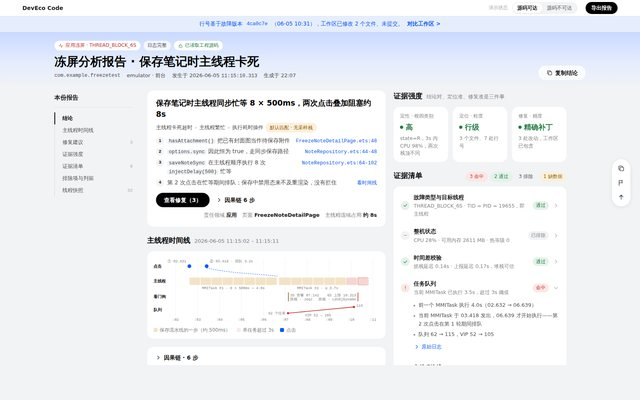
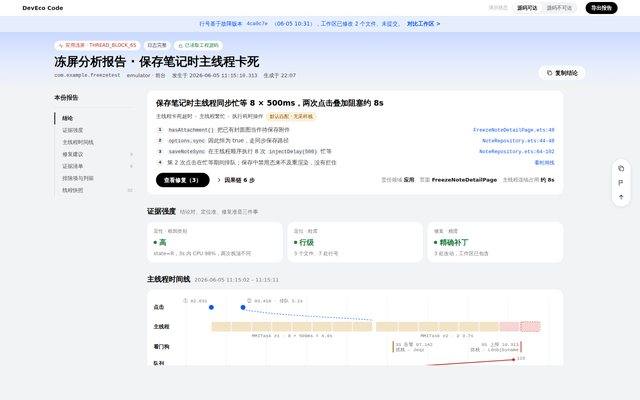
demo 28 正文改成单列
右栏分两列太挤：正文改为单列（最宽 1040px），按读者决策顺序排——结论 →
证据强度 → 主线程时间线 → 因果链 → 修复建议 → 证据清单 → 排除项与判据 →
线程快照，左侧目录同序。时间线坐标宽度随之放大，字号保持不变。提示词 B3
与分析报告审查页同步。

diff --git a/demos/28-appfreeze-report/index.html b/demos/28-appfreeze-report/index.html
@@ -88,9 +88,9 @@ h1{font-size:30px;font-weight:700;line-height:1.3;color:var(--ink)}
 
 
 /* ===== 两栏正文 ===== */
-.grid2{display:grid;grid-template-columns:minmax(0,58fr) minmax(0,42fr);gap:20px;align-items:start}
-.col{display:flex;flex-direction:column;gap:20px;min-width:0}
-@media (max-width:1280px){.grid2{grid-template-columns:1fr}}
+.grid2{display:flex;flex-direction:column;gap:28px;max-width:1040px}
+.col{display:contents}
+#sec-verdict{order:1}#sec-strength{order:2}#sec-timeline{order:3}#sec-chain{order:4}#sec-fix{order:5}#sec-checks{order:6}#sec-excl{order:7}#sec-threads{order:8}
 .sec-t{display:flex;align-items:baseline;gap:10px;margin-bottom:12px}
 .sec-t h2{font-size:18px;font-weight:700;color:var(--ink)}
 .sec-t .sub2{font-size:13px;color:var(--ink3)}
@@ -305,9 +305,9 @@ a.btn{text-decoration:none}
     <div class="rep"><h6>本份报告</h6>
     <nav class="tree">
       <a href="#sec-verdict" data-s="sec-verdict">结论</a>
+      <a href="#sec-strength" data-s="sec-strength">证据强度</a>
       <a href="#sec-timeline" data-s="sec-timeline">主线程时间线</a>
       <a href="#sec-fix" data-s="sec-fix">修复建议<span class="n" id="nav-fixn">3</span></a>
-      <a href="#sec-strength" data-s="sec-strength">证据强度</a>
       <a href="#sec-checks" data-s="sec-checks">证据清单<span class="n" id="nav-ckn">9</span></a>
       <a href="#sec-excl" data-s="sec-excl">排除项与判据</a>
       <a href="#sec-threads" data-s="sec-threads">线程快照<span class="n">32</span></a>
@@ -561,7 +561,7 @@ function render(anim){
       <section id="sec-timeline">
         <div class="sec-t"><h2>主线程时间线</h2><span class="sub2">2026-06-05 11:15:02 – 11:15:11</span><span class="grow"></span></div>
         <div class="chart">
-          <svg id="tl" viewBox="0 0 720 ${verified?262:212}"></svg>
+          <svg id="tl" viewBox="0 0 1000 ${verified?262:212}"></svg>
           <div class="legend"><span><i style="background:#F3E3C6"></i>保存流水线的一步（约 500ms）</span><span><i style="background:var(--no-soft)"></i>单任务超过 3s</span><span><i style="background:var(--accent)"></i>点击</span>${verified?'<span><i style="background:var(--yes-soft)"></i>修复后复现</span>':''}</div>
         </div>
       </section>
@@ -656,7 +656,7 @@ function ckRow(c,i){
 }
 
 /* ---------- 时间线 ---------- */
-const X0=70, PX=70; // x = X0 + (sec - 2) * PX
+const X0=80, PX=100; // x = X0 + (sec - 2) * PX
 const tx=s=>X0+(parseFloat(s)-2)*PX;
 function drawTimeline(){
   const svg=$('#tl'); if(!svg) return;
@@ -687,7 +687,7 @@ function drawTimeline(){
     g+=`<rect x="${tx(2.64)}" y="214" width="6" height="16" rx="2" fill="#237A45"/><rect x="${tx(3.43)}" y="214" width="5" height="16" rx="2" fill="#237A45"/>`;
     g+=`<text x="${tx(3.8)}" y="226" fill="#237A45">两次点击各 14ms / 9ms 返回 · 保存在后台完成 · 未触发 3S / 6S</text>`;
   }
-  svg.setAttribute('viewBox',`0 0 720 ${H}`);
+  svg.setAttribute('viewBox',`0 0 1000 ${H}`);
   svg.innerHTML=g;
 }
 

diff --git a/analysis/appfreeze-report/REPORT-分析报告.html b/analysis/appfreeze-report/REPORT-分析报告.html
@@ -542,7 +542,7 @@ b.r{color:var(--red)}b.g{color:var(--green)}b.y{color:var(--yellow)}b.b{color:va
         <tbody>
           <tr><td><b>B1</b></td><td>镜1 首屏与空态</td><td>首屏 900px 只有标题、机器枚举、重复 H1、基本信息与 250 字散文；修复在第 5.6 / 6.2 屏</td><td class="sev"><span class="chip chip-red">🔴 严重</span></td><td>结论卡 + 证据强度 + 时间线进首屏</td></tr>
           <tr><td><b>B2</b></td><td>镜2 可扫读性</td><td>诊断一句含 ≥6 个事实；7 个排除项挤在一句散文</td><td class="sev"><span class="chip chip-red">🔴 严重</span></td><td>要点行 + 定位 chip；排除项 chip 网格</td></tr>
-          <tr><td><b>B3</b></td><td>镜3 空间叙事</td><td>960px 单栏，1440 下空白 33%、1920 下 50%；结论与支撑证据相距 &gt;2700px</td><td class="sev"><span class="chip chip-yellow">🟡 中等</span></td><td>≥1200px 双栏：左判决 / 右证据；行号分屏</td></tr>
+          <tr><td><b>B3</b></td><td>镜3 空间叙事</td><td>960px 单栏，1440 下空白 33%、1920 下 50%；结论与支撑证据相距 &gt;2700px</td><td class="sev"><span class="chip chip-yellow">🟡 中等</span></td><td>单列按决策顺序排：判决 → 强度 → 时间线 → 修复 → 证据；行号开代码面板</td></tr>
           <tr><td><b>B4</b></td><td>镜4 数据流</td><td>两次点击 → 两轮 4.0s → 3S → 6S 只在 21 行 hilog 里</td><td class="sev"><span class="chip chip-red">🔴 严重</span></td><td>四泳道主线程时间线</td></tr>
           <tr><td><b>B5</b></td><td>镜5 状态编码</td><td>8 项检查无状态标识；置信度单一「HIGH」，两版相同</td><td class="sev"><span class="chip chip-red">🔴 严重</span></td><td>三轴强度 + 四色证据状态 + 摘要</td></tr>
         </tbody>

diff --git a/analysis/appfreeze-report/PROMPT-Demo优化提示词.md b/analysis/appfreeze-report/PROMPT-Demo优化提示词.md
@@ -93,14 +93,14 @@
   2. 三级根因路径：`主线程卡死超时 › 主线程繁忙 › 执行耗时操作`，第三级后挂 `--part` 浅底 pill「默认匹配 · 无采样栈」
   3. 4 条编号要点（见 B2）
   4. 底行：黑色胶囊主按钮「查看修复（3）」+「因果链 6 步」+ 右对齐元信息「责任领域 应用 · 页面 FreezeNoteDetailPage · 主线程连续占用 约 8s」
-- 首屏（1440×900）必须同时可见：结论卡 + 证据强度 + 时间线。〔应用开发者·首次打开 30 秒〕
+- 首屏（1440×900）必须看到结论卡与证据强度，时间线紧随其后。〔应用开发者·首次打开 30 秒〕
 
 **B2 散文堆叠**
 - 目标：诊断拆成**编号要点行**，每行一个事实，行尾是定位链接（等宽 12.5px，`--accent`）：「`hasAttachment()` 把已有封面图当作待保存附件 · FreezeNoteDetailPage.ets:48」；落在时间线上的事实给「看时间线」。
 - 排除项改为 **7 个胶囊**：`等锁` `Binder` `阻塞 IO` `FFRT` `libuv` `FullGC` `HeapDump`，每个带 ✕ 线性图标 +「已排除」，hover 显示判据；上面配一张「繁忙 vs 阻塞」四行判据表，命中列用 `--no`。〔DFX 专家·复核〕
 
 **B3 单栏孤岛**
-- 目标：正文 ≥1200px 两栏——左 58%：结论卡 → 时间线 → 因果链 → 修复；右 42%：证据强度 → 证据清单 → 排除项与判据 → 线程快照。<1200px 单栏同顺序；<900px 隐藏左侧目录。
+- 目标：正文**单列**（最宽 1040px，不分两栏，避免拥挤），按读者决策顺序自上而下：结论卡 → 证据强度 → 主线程时间线 → 因果链 → 修复 → 证据清单 → 排除项与判据 → 线程快照；左侧目录同序，<900px 隐藏左侧目录。
 - 点任一行号：右侧滑出**代码面板**（宽 min(760px, 56vw)，遮罩压暗正文），顶部是完整路径 + 「故障版本 4ca0c7e」，三文件标签可切；命中行 `--no-soft` 整行底 + 左侧 3px `--no` 色条 + 进场闪一下，关联行用 `--part-soft`；右上浮胶囊「对应根因 ① · hasAttachment 误判」；底栏写行号的含义。`Esc` 关闭。〔应用开发者·定位〕
 
 **B4 因果只在日志里**
@@ -112,7 +112,7 @@
 - hover 任一段显示对应 hilog 原文。V1 与 V2 用同一时间线（数据相同）。〔应用开发者·理解为什么是 6S〕
 
 **B5 无状态编码 / 单一置信度**
-- 目标：**证据强度三轴**（右栏顶部三张白卡）：
+- 目标：**证据强度三轴**（结论卡下方一行三张白卡）：
   - 定性 · 根因类别：高 ·「state=R，3s 内 CPU 98%，两次栈顶不同」
   - 定位 · 粒度：V2「行级 · 3 个文件、7 处行号」/ V1「函数级 · 来自应用日志」
   - 修复 · 精度：V2「精确补丁 · 3 处，工作区已包含」/ V1「通用方向 · 未经源码核实」
